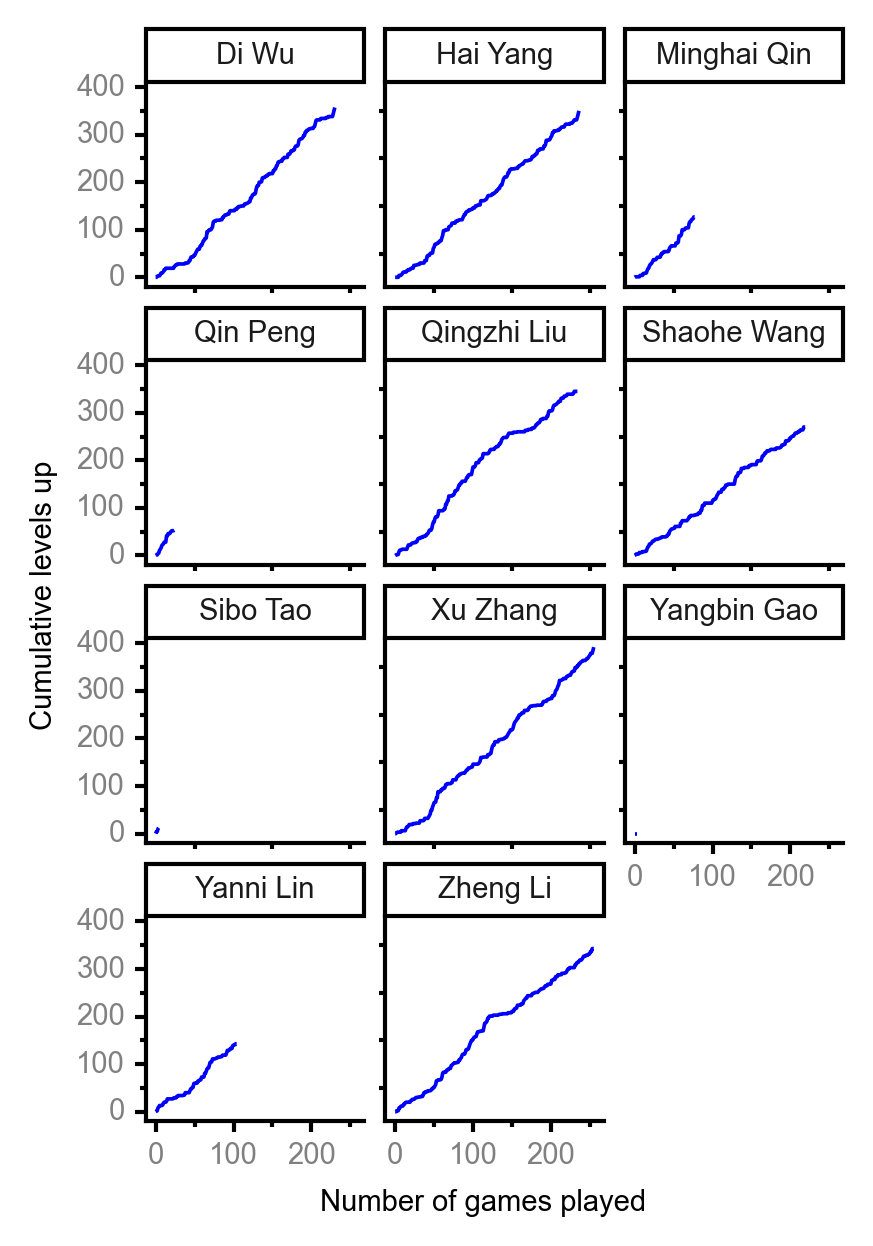
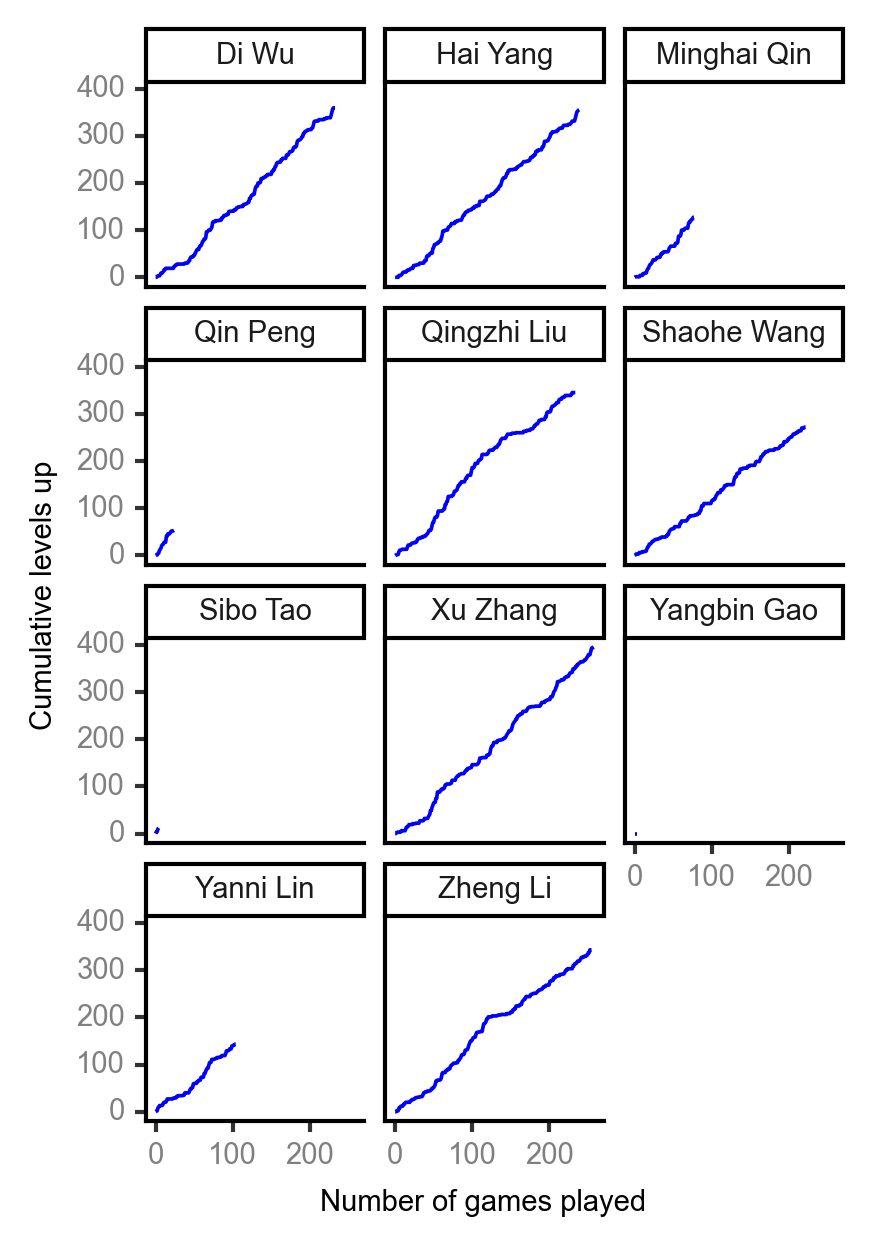
update player stats

diff --git a/player_stats.md b/player_stats.md
@@ -3,7 +3,7 @@ layout: player_stats
 title: Player Statistics
 author: Shaohe Wang
 author_url: https://scholar.google.com/citations?user=R_-kJV4AAAAJ&hl=en
-date: 2021-05-01
+date: 2021-05-08
 ---
 
 #### [Spreadsheet](https://docs.google.com/spreadsheets/d/1So3PBr9gV3I0LzApZOgJlQew2QjM1wAiWhR50rAnHRg/edit#gid=2137801449)
@@ -14,12 +14,12 @@ date: 2021-05-01
 
 | <br><br><br>Rank | <br><br><br>Player | <br> Lifetime <br> levels <br> up | <br><br> Winning <br> rate | <br> Average <br> levels <br> up | <br> Total <br> games <br> played | Games <br> played <br> as <br> MVP | Games <br> played <br> as <br> dealer | N_games <br> short <br> staffed <br> as dealer | Winning <br> rate <br> as <br> dealer |
 |:---:|:---:|:---:|:---:|:---:|:---:|:---:|:---:|:---:|:---:|
-| 1 | Xu <br> Zhang | 394 | 55.1% | 2.79 | 256 | 19 | 48 | 2 | 54.2% |
-| 2 | Di <br> Wu | 359 | 48.9% | 3.18 | 231 | 26 | 40 | 0 | 42.5% |
-| 3 | Hai <br> Yang | 352 | 51.1% | 2.91 | 237 | 22 | 41 | 1 | 51.2% |
+| 1 | Xu <br> Zhang | 395 | 54.8% | 2.78 | 259 | 19 | 49 | 2 | 53.1% |
+| 2 | Hai <br> Yang | 361 | 51.7% | 2.91 | 240 | 22 | 42 | 1 | 52.4% |
+| 3 | Di <br> Wu | 359 | 48.3% | 3.18 | 234 | 26 | 40 | 0 | 42.5% |
 | 4 | Qingzhi <br> Liu | 345 | 49.8% | 2.95 | 235 | 11 | 41 | 4 | 46.3% |
 | 5 | Zheng <br> Li | 343 | 52.7% | 2.54 | 256 | 11 | 40 | 1 | 57.5% |
-| 6 | Shaohe <br> Wang | 270 | 44.5% | 2.76 | 220 | 11 | 34 | 2 | 44.1% |
+| 6 | Shaohe <br> Wang | 278 | 44.8% | 2.78 | 223 | 11 | 35 | 2 | 42.9% |
 | 7 | Yanni <br> Lin | 144 | 47.6% | 2.88 | 105 | 10 | 11 | 2 | 36.4% |
 | 8 | Minghai <br> Qin | 127 | 52.6% | 3.10 | 78 | 1 | 11 | 1 | 72.7% |
 | 9 | Qin <br> Peng | 54 | 72.0% | 3.00 | 25 | 3 | 3 | 0 | 66.7% |
